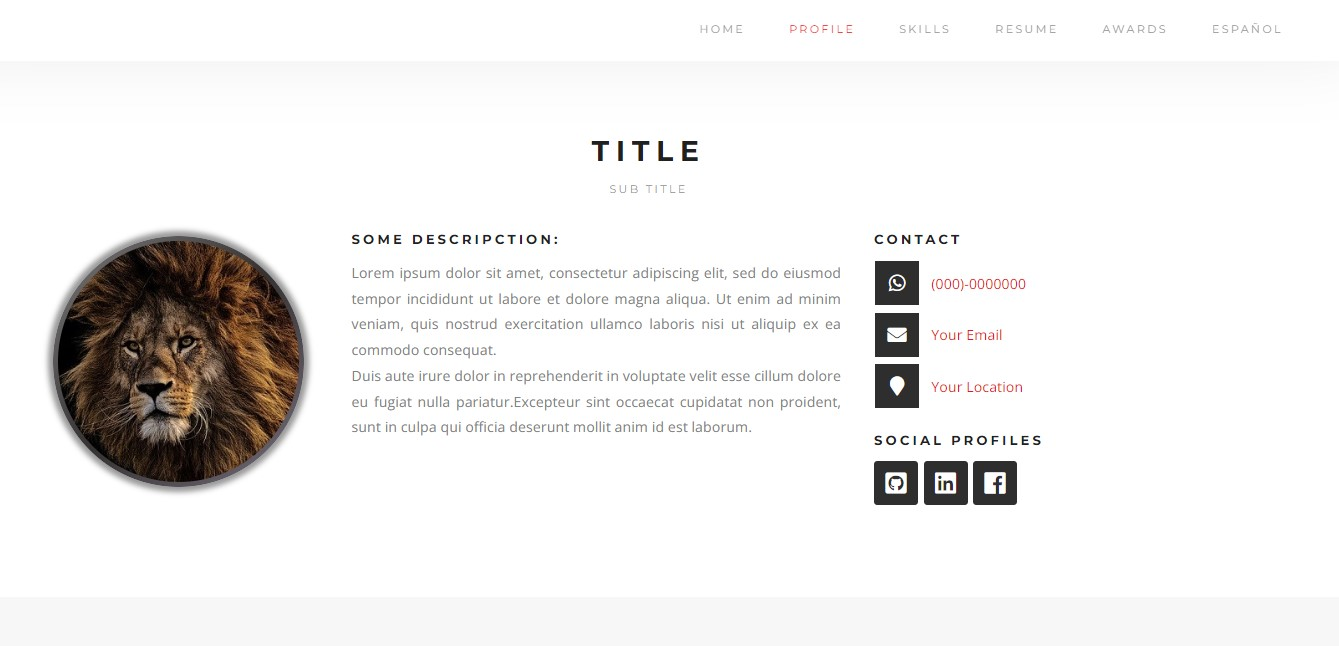
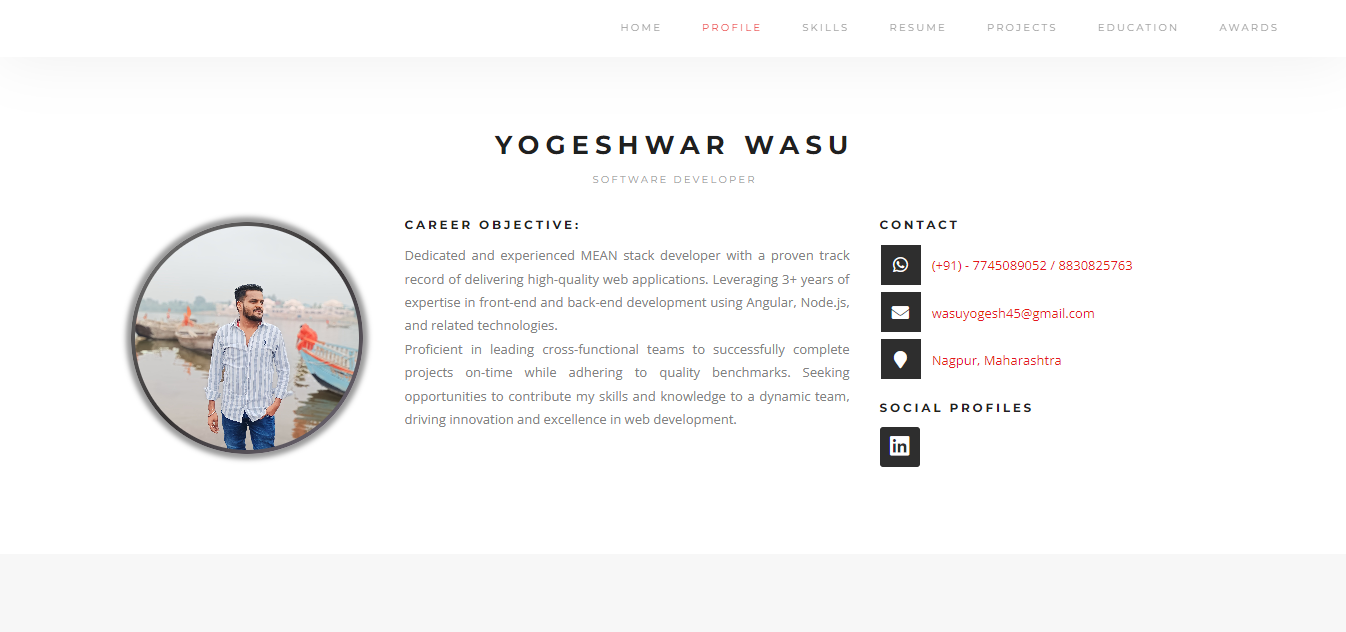
alpha

diff --git a/README.md b/README.md
@@ -1,5 +1,4 @@
-# CV/RESUME JEER
-A simple template to write your resume.
+# CV/RESUME Yogeshwar Wasu
 
 This project was generated with [Angular CLI](https://github.com/angular/angular-cli) version 13.3.3.
 
@@ -21,9 +20,4 @@ Run `ng serve` for a dev server. Navigate to `http://localhost:4200/`. The appli
 ## Build
 
 Run `ng build` to build the project. The build artifacts will be stored in the `dist/` directory.
-
-## Images 
-https://pixabay.com/es/
-"# resume" 
-"# resume" 
-"# resume" 
+ 
